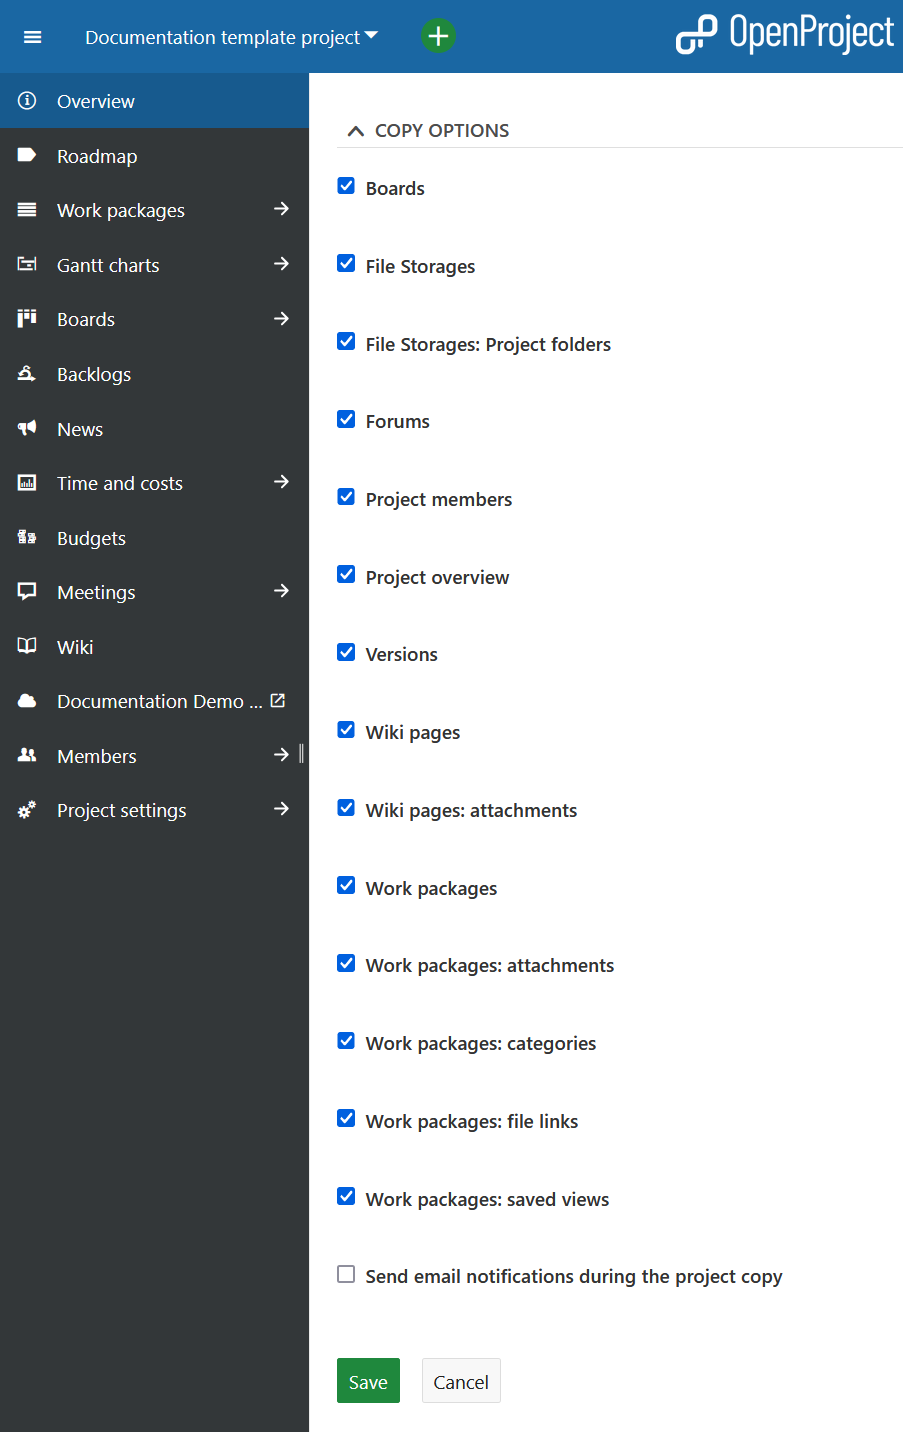
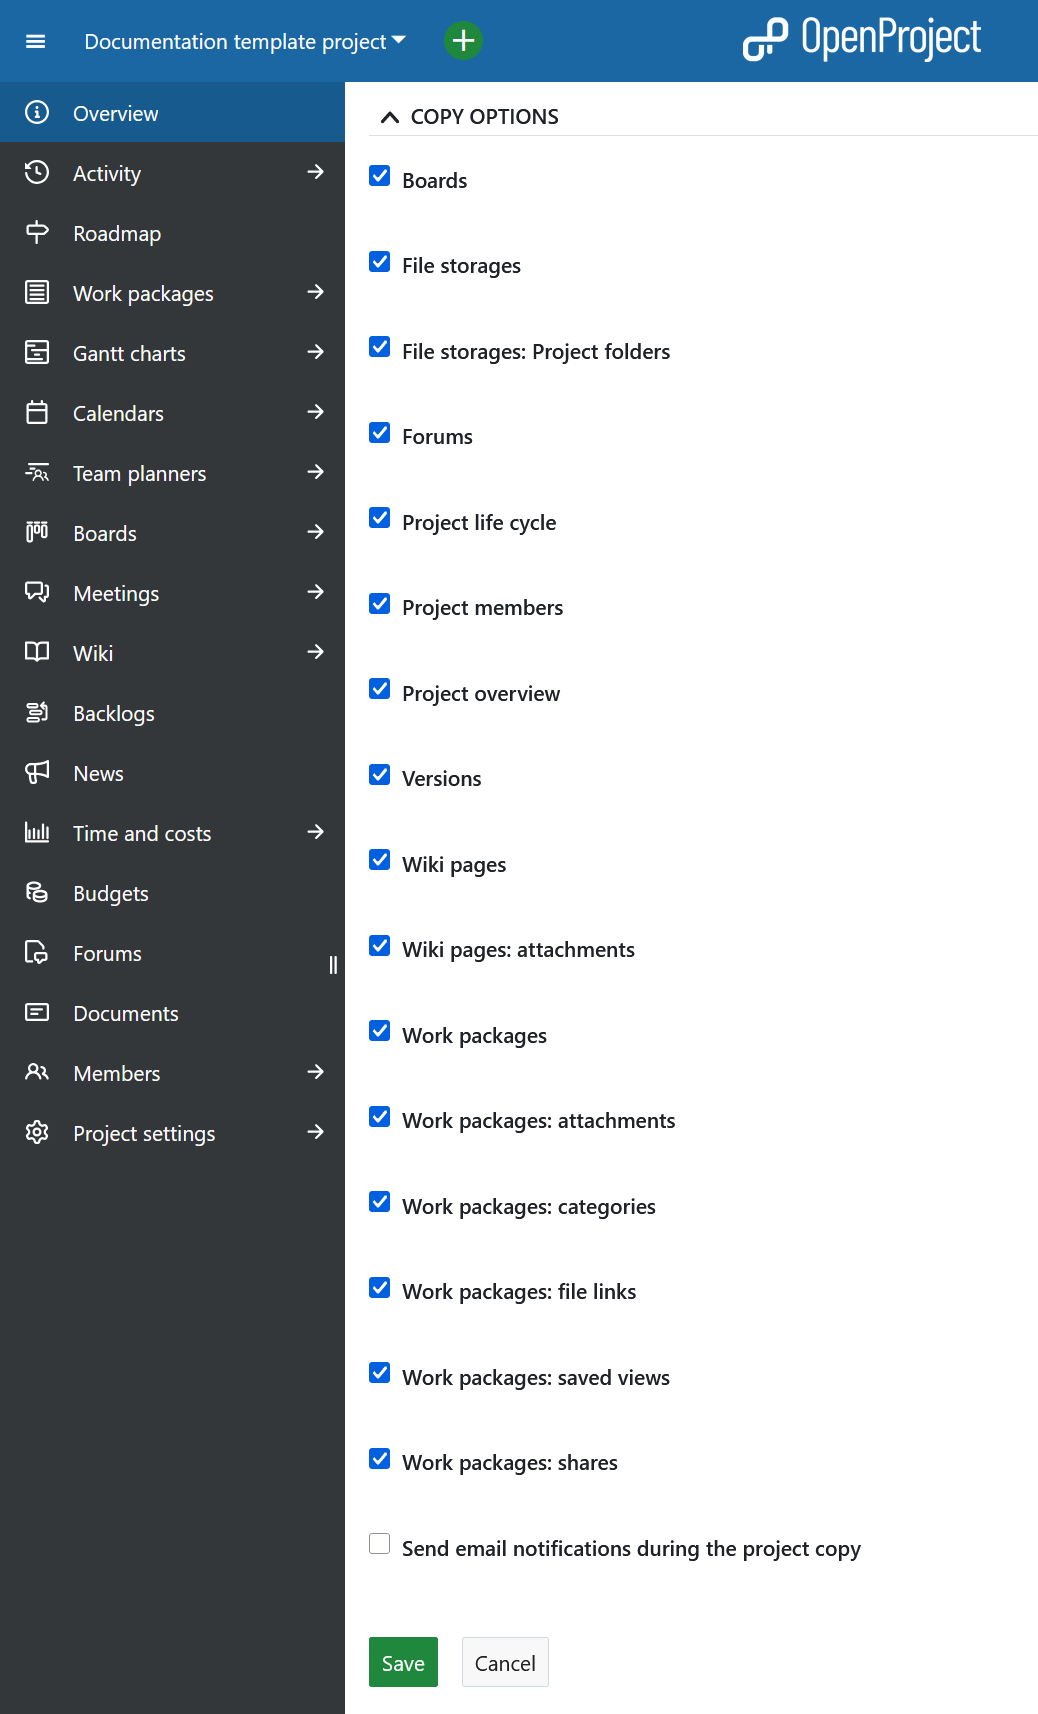
update copying projects

Changed region(s): [[0.0, 0.0, 1.0, 1.0], [0.031, 0.0, 0.062, 0.0307]]

diff --git a/docs/user-guide/projects/README.md b/docs/user-guide/projects/README.md
@@ -115,9 +115,9 @@ Setting a project to public will make it accessible to all people within your Op
 
 ### Copy a project
 
-You can copy an existing project by navigating to the [project settings](project-settings) and clicking **Copy project** in the upper right of the project settings.
+You can copy an existing project by navigating to the [Project settings](project-settings) -> Information. Click the **More** (three dots) menu in the upper right corner and selec **Copy**.
 
-![project information copy project](project-information-copy-project.png)
+![Copy a project under project settings in OpenProject](project-information-copy-project.png)
 
 Give the new project a name. Under **Copy options** select which modules and settings you want to copy and whether or not you want to notify users via email during copying.
 You can copy existing [boards](../agile-boards) (apart from the Subproject board) and the [Project overview](../project-overview/#project-overview) dashboards along with your project, too.
@@ -131,7 +131,7 @@ For further configuration open the **Advanced settings**. Here you can specify (
 
 ![copy project advanced settings](project-settings-copy-project-advanced-settings.png)
 
-Under the **Copy options** section you can select what additional project data and settings, such as versions, work package categories, attachments and project members should be copied as well.
+Under the **Copy options** section you can select what additional project data and settings, such as versions, work package categories, attachments, project life cycle and project members should be copied as well.
 
 ![Copy options when copying a project in OpenProject](project-settings-copy-project-copy-options.png)
 

diff --git a/docs/user-guide/work-packages/work-package-table-configuration/README.md b/docs/user-guide/work-packages/work-package-table-configuration/README.md
@@ -162,6 +162,10 @@ To focus on specific stages of your project, you can use the **Project phase** f
 
 Once applied, the filtered view shows only the work packages assigned to the selected phase(s), providing a clear snapshot of where your tasks sit within the overall project lifecycle. 
 
+> [!TIP]
+>
+> To be able to assign a work package to a specific project phase,  it is required to enable the **project phase** attribute in the administration for a a specific work package type and to active this work package type for a project. Read more about [configuring work package forms](../../../system-admin-guide/manage-work-packages/work-package-types/#work-package-form-configuration-enterprise-add-on)
+
 ![Work packages filtered by project phase in OpenProject](openproject_user_guide_wp_table_project_phases_displayed.png)
 
 To gain even more insight, you can group the work packages by project phase. This helps visualize how tasks are distributed across phases and identify any gaps or overlaps in planning. This filtering and grouping combination makes it easier to manage progress, align tasks with strategic milestones, and ensure smooth transitions through phase gates.
